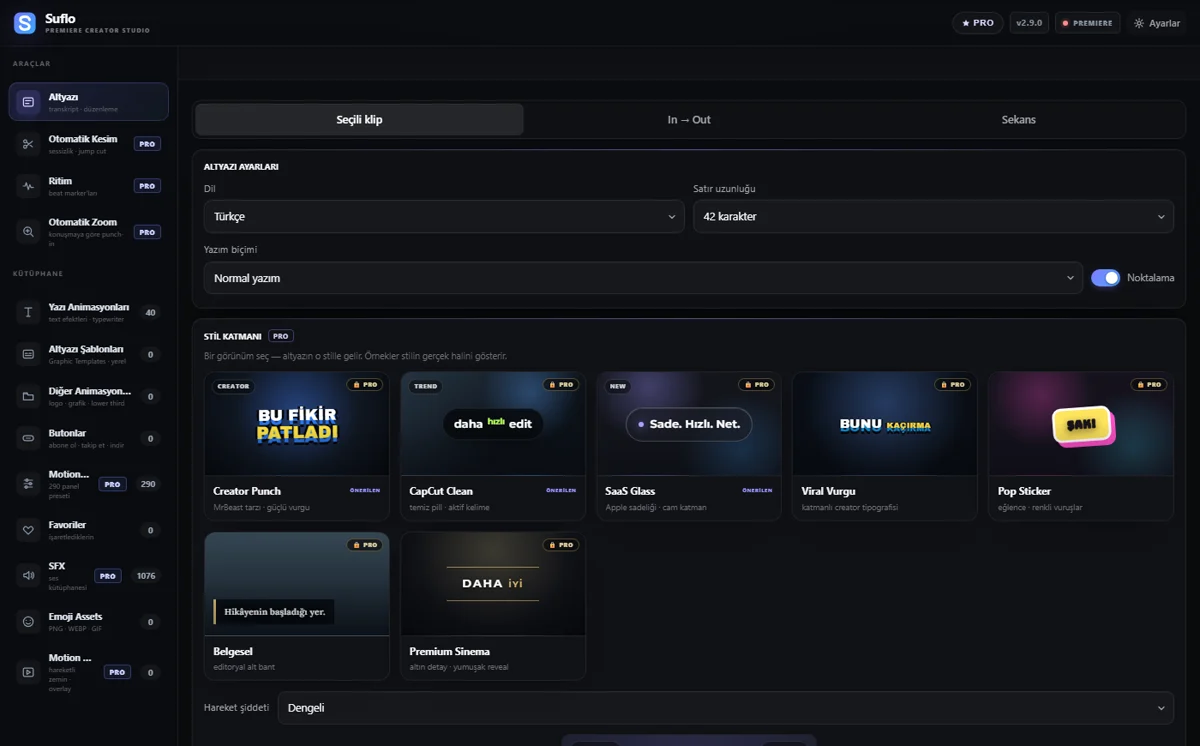
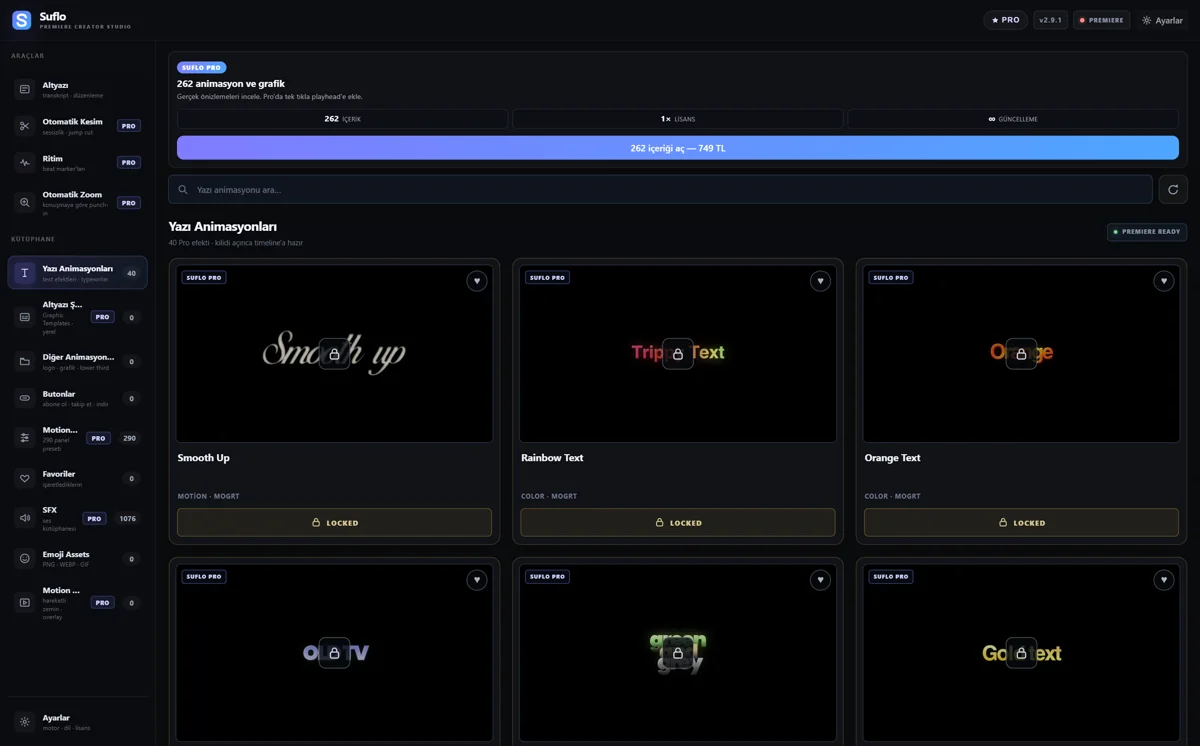
Site v2.9.1'e uyarlandi: gercek Creator Studio gorseli + dogru sayilar
- Hero gorseli yeni Creator Studio arayuzunden tazelendi (CDP yakalama,
  1200x746 webp, ?v=291 ile onbellek kirici)
- Stil karti duzeltildi: 10 degil 7 gercek stil (Creator Punch, CapCut
  Clean, SaaS Glass dahil), gomulu Turkce fontlar
- Preset sayisi netlestirildi: 290 = 12 yerlesik + 278 Suflo Smooth
- Otomatik Zoom karti 2.9 karar motoru diliyle guncellendi
- Kutuphane notuna Altyazi Sablonlari (Captioneer), kurulum notuna
  Suflo Doctor eklendi
- devserver.js PORT ortam degiskenini taniyor (5177 doluysa autoPort)

diff --git a/docs/index.html b/docs/index.html
@@ -29,7 +29,7 @@
 <link rel="preconnect" href="https://fonts.gstatic.com" crossorigin>
 <link href="https://fonts.googleapis.com/css2?family=Plus+Jakarta+Sans:wght@400;500;600;700;800&display=swap" rel="stylesheet">
 
-<script type="application/ld+json">{"@context":"https://schema.org","@graph":[{"@type":"SoftwareApplication","name":"Suflo","applicationCategory":"MultimediaApplication","applicationSubCategory":"Adobe Premiere Pro eklentisi","operatingSystem":"Windows, macOS","url":"https://suflo.app/","downloadUrl":"https://github.com/sametcreates/suflo/releases/latest","softwareVersion":"2.9.1","license":"https://opensource.org/licenses/MIT","inLanguage":"tr","description":"Adobe Premiere Pro için ücretsiz ve açık kaynak yapay zekâ altyazı eklentisi. Türkçe, Azerice, İngilizce, Rusça dahil 99 dil. Bilgisayarda yerel çalışır, kurulumdan sonra internet gerektirmez.","featureList":["Otomatik Türkçe altyazı","Otomatik Azerice altyazı","Uygulamadan önce satır satır düzenleme","Terim sözlüğü ile doğru Türkçe yazım","SRT, WebVTT, ASS ve TXT dışa aktarma","NVIDIA GPU ve Apple Metal hızlandırma","Kurulumdan sonra internetsiz çalışma"],"offers":{"@type":"Offer","price":"0","priceCurrency":"TRY"},"interactionStatistic":{"@type":"InteractionCounter","interactionType":"https://schema.org/DownloadAction","userInteractionCount":1229},"author":{"@type":"Person","name":"sametcreates","url":"https://instagram.com/sametcreates"}},{"@type":"SoftwareApplication","name":"Suflo Pro","operatingSystem":"Windows, macOS","applicationCategory":"MultimediaApplication","description":"Suflo'nun ücretli katmanı: otomatik sessizlik kesimi, konuşmaya göre punch-in zoom, ritim marker'ları, 262 hazır animasyon (35 buton dahil), 1076 ses efekti, 30 hareketli zemin, 290 panel preseti, Creator Punch, CapCut Clean ve SaaS Glass dahil Stil Motoru v3, çeviri ve stilli ASS. Tek seferlik ödeme, abonelik yok.","url":"https://suflo.app/#fiyat","offers":{"@type":"Offer","price":"749","priceCurrency":"TRY","url":"https://suflo.lemonsqueezy.com/checkout/buy/e33dda31-8e47-46c3-be1d-e047ab1b2dd1","availability":"https://schema.org/InStock"}},{"@type":"HowTo","name":"Adobe Premiere Pro'ya Türkçe altyazı nasıl eklenir","description":"Suflo eklentisiyle Premiere Pro'ya birkaç dakikada otomatik Türkçe altyazı ekleme adımları.","totalTime":"PT5M","tool":[{"@type":"HowToTool","name":"Adobe Premiere Pro 2020 (14.4) veya üstü"}],"step":[{"@type":"HowToStep","position":1,"name":"Suflo'yu indir ve kur","text":"GitHub sürüm sayfasından kurulum dosyasını indir, ZIP'i aç ve kur dosyasına çift tıkla (Windows: Suflo-Kur.bat, Mac: Suflo-Kur.command).","url":"https://suflo.app/#kurulum"},{"@type":"HowToStep","position":2,"name":"Paneli aç","text":"Premiere'i yeniden başlat ve Window > Extensions > Suflo menüsünden paneli aç.","url":"https://suflo.app/#kurulum"},{"@type":"HowToStep","position":3,"name":"Altyazı oluştur","text":"Klibi seç, dili Türkçe bırak ve Altyazı oluştur düğmesine bas. Metni panelde düzenleyip caption izi olarak uygula ya da SRT/VTT olarak dışa aktar.","url":"https://suflo.app/#nasil"}]},{"@type":"FAQPage","mainEntity":[{"@type":"Question","name":"Adobe Premiere Türkçe altyazı yapabiliyor mu?","acceptedAnswer":{"@type":"Answer","text":"Hayır. Premiere'in yerleşik konuşmayı yazıya dökme özelliği 18 dil destekliyor ve bu listede Türkçe de Azerice de yok. Suflo tam bu boşluğu doldurur ve altyazı tarafı tamamen ücretsizdir."}},{"@type":"Question","name":"Suflo gerçekten tamamen ücretsiz mi, şartı ne?","acceptedAnswer":{"@type":"Answer","text":"Şartı yok. Altyazı çekirdeği MIT lisanslı açık kaynak, kodun tamamı GitHub'da. Yapay zekâ senin bilgisayarında çalıştığı için sunucu maliyeti yok, o yüzden ücretsiz kalabiliyor. Kredi, dakika limiti veya kayıt istemez."}},{"@type":"Question","name":"Videolarım buluta yükleniyor mu?","acceptedAnswer":{"@type":"Answer","text":"Hayır. Yerel motorda ses bilgisayarından hiç çıkmaz, kurulumdan sonra internet bile gerekmez. Sadece isteğe bağlı bulut motorunu seçersen ses senin belirlediğin sağlayıcıya gider. Çeviri özelliği yalnız altyazı metnini gönderir, sesi değil."}},{"@type":"Question","name":"Denemek için demo sürümü var mı?","acceptedAnswer":{"@type":"Answer","text":"Demoya gerek yok: ücretsiz sürüm kısıtlı bir deneme değil, tam ve sınırsız araçtır. Türkçe altyazı, düzenleme ve SRT/VTT dışa aktarma sonsuza dek bedava. Suflo Pro yalnızca otomatik kesim, animasyon ve ses kütüphanesi gibi hızlandıran katmanı ekler."}},{"@type":"Question","name":"Hangi Premiere sürümü gerekiyor?","acceptedAnswer":{"@type":"Answer","text":"Adobe Premiere Pro 2020 (sürüm 14.4) ve üstü. Windows ve macOS'ta çalışır; Apple Silicon'da Metal, NVIDIA kartlarda CUDA hızlandırma otomatik açılır."}},{"@type":"Question","name":"Nasıl kurulur?","acceptedAnswer":{"@type":"Answer","text":"Kurulum dosyasını indir, ZIP'i aç ve kur dosyasına çift tıkla (Windows: Suflo-Kur.bat, Mac: Suflo-Kur.command). Sonra Premiere'i yeniden başlat ve Window > Extensions > Suflo menüsünden paneli aç. Toplam iki dakika sürer."}},{"@type":"Question","name":"Pro abonelik mi, tek ödeme mi?","acceptedAnswer":{"@type":"Answer","text":"Tek ödeme. Bir kez ödersin, ömür boyu senindir, güncellemeler ve yeni içerikler dahildir. Aylık ücret, dakika limiti veya otomatik yenileme yok."}},{"@type":"Question","name":"Bilgisayar değiştirirsem lisansım ne olur?","acceptedAnswer":{"@type":"Answer","text":"Lisansın kişiseldir ve seninle taşınır. Eski bilgisayarda Ayarlar bölümünden bu makinede devre dışı bırak, yeni bilgisayarda aynı anahtarla etkinleştir."}},{"@type":"Question","name":"Bilgisayarım yavaşsa çalışır mı?","acceptedAnswer":{"@type":"Answer","text":"Beş model seçeneği var; en küçüğü 32 MB ve zayıf bilgisayarlarda da çalışır. Acelen varsa ücretsiz bir Groq bulut anahtarıyla bulut moduna geçebilirsin: dakikalar değil saniyeler sürer."}},{"@type":"Question","name":"Hangi diller destekleniyor?","acceptedAnswer":{"@type":"Answer","text":"Türkçe, Azerice, İngilizce ve Rusça panelden tek tıkla seçilir. Otomatik algıla seçeneğiyle Whisper'ın desteklediği 99 dilin tamamı kullanılabilir."}}]}]}</script>
+<script type="application/ld+json">{"@context":"https://schema.org","@graph":[{"@type":"SoftwareApplication","name":"Suflo","applicationCategory":"MultimediaApplication","applicationSubCategory":"Adobe Premiere Pro eklentisi","operatingSystem":"Windows, macOS","url":"https://suflo.app/","downloadUrl":"https://github.com/sametcreates/suflo/releases/latest","softwareVersion":"2.9.1","license":"https://opensource.org/licenses/MIT","inLanguage":"tr","description":"Adobe Premiere Pro için ücretsiz ve açık kaynak yapay zekâ altyazı eklentisi. Türkçe, Azerice, İngilizce, Rusça dahil 99 dil. Bilgisayarda yerel çalışır, kurulumdan sonra internet gerektirmez.","featureList":["Otomatik Türkçe altyazı","Otomatik Azerice altyazı","Uygulamadan önce satır satır düzenleme","Terim sözlüğü ile doğru Türkçe yazım","SRT, WebVTT, ASS ve TXT dışa aktarma","NVIDIA GPU ve Apple Metal hızlandırma","Kurulumdan sonra internetsiz çalışma"],"offers":{"@type":"Offer","price":"0","priceCurrency":"TRY"},"interactionStatistic":{"@type":"InteractionCounter","interactionType":"https://schema.org/DownloadAction","userInteractionCount":1229},"author":{"@type":"Person","name":"sametcreates","url":"https://instagram.com/sametcreates"}},{"@type":"SoftwareApplication","name":"Suflo Pro","operatingSystem":"Windows, macOS","applicationCategory":"MultimediaApplication","description":"Suflo'nun ücretli katmanı: otomatik sessizlik kesimi, konuşmaya göre punch-in zoom, ritim marker'ları, 262 hazır animasyon (35 buton dahil), 1076 ses efekti, 30 hareketli zemin, 290 preset (278'i Suflo Smooth efekt paketi), Creator Punch, CapCut Clean ve SaaS Glass dahil Stil Motoru v3, çeviri ve stilli ASS. Tek seferlik ödeme, abonelik yok.","url":"https://suflo.app/#fiyat","offers":{"@type":"Offer","price":"749","priceCurrency":"TRY","url":"https://suflo.lemonsqueezy.com/checkout/buy/e33dda31-8e47-46c3-be1d-e047ab1b2dd1","availability":"https://schema.org/InStock"}},{"@type":"HowTo","name":"Adobe Premiere Pro'ya Türkçe altyazı nasıl eklenir","description":"Suflo eklentisiyle Premiere Pro'ya birkaç dakikada otomatik Türkçe altyazı ekleme adımları.","totalTime":"PT5M","tool":[{"@type":"HowToTool","name":"Adobe Premiere Pro 2020 (14.4) veya üstü"}],"step":[{"@type":"HowToStep","position":1,"name":"Suflo'yu indir ve kur","text":"GitHub sürüm sayfasından kurulum dosyasını indir, ZIP'i aç ve kur dosyasına çift tıkla (Windows: Suflo-Kur.bat, Mac: Suflo-Kur.command).","url":"https://suflo.app/#kurulum"},{"@type":"HowToStep","position":2,"name":"Paneli aç","text":"Premiere'i yeniden başlat ve Window > Extensions > Suflo menüsünden paneli aç.","url":"https://suflo.app/#kurulum"},{"@type":"HowToStep","position":3,"name":"Altyazı oluştur","text":"Klibi seç, dili Türkçe bırak ve Altyazı oluştur düğmesine bas. Metni panelde düzenleyip caption izi olarak uygula ya da SRT/VTT olarak dışa aktar.","url":"https://suflo.app/#nasil"}]},{"@type":"FAQPage","mainEntity":[{"@type":"Question","name":"Adobe Premiere Türkçe altyazı yapabiliyor mu?","acceptedAnswer":{"@type":"Answer","text":"Hayır. Premiere'in yerleşik konuşmayı yazıya dökme özelliği 18 dil destekliyor ve bu listede Türkçe de Azerice de yok. Suflo tam bu boşluğu doldurur ve altyazı tarafı tamamen ücretsizdir."}},{"@type":"Question","name":"Suflo gerçekten tamamen ücretsiz mi, şartı ne?","acceptedAnswer":{"@type":"Answer","text":"Şartı yok. Altyazı çekirdeği MIT lisanslı açık kaynak, kodun tamamı GitHub'da. Yapay zekâ senin bilgisayarında çalıştığı için sunucu maliyeti yok, o yüzden ücretsiz kalabiliyor. Kredi, dakika limiti veya kayıt istemez."}},{"@type":"Question","name":"Videolarım buluta yükleniyor mu?","acceptedAnswer":{"@type":"Answer","text":"Hayır. Yerel motorda ses bilgisayarından hiç çıkmaz, kurulumdan sonra internet bile gerekmez. Sadece isteğe bağlı bulut motorunu seçersen ses senin belirlediğin sağlayıcıya gider. Çeviri özelliği yalnız altyazı metnini gönderir, sesi değil."}},{"@type":"Question","name":"Denemek için demo sürümü var mı?","acceptedAnswer":{"@type":"Answer","text":"Demoya gerek yok: ücretsiz sürüm kısıtlı bir deneme değil, tam ve sınırsız araçtır. Türkçe altyazı, düzenleme ve SRT/VTT dışa aktarma sonsuza dek bedava. Suflo Pro yalnızca otomatik kesim, animasyon ve ses kütüphanesi gibi hızlandıran katmanı ekler."}},{"@type":"Question","name":"Hangi Premiere sürümü gerekiyor?","acceptedAnswer":{"@type":"Answer","text":"Adobe Premiere Pro 2020 (sürüm 14.4) ve üstü. Windows ve macOS'ta çalışır; Apple Silicon'da Metal, NVIDIA kartlarda CUDA hızlandırma otomatik açılır."}},{"@type":"Question","name":"Nasıl kurulur?","acceptedAnswer":{"@type":"Answer","text":"Kurulum dosyasını indir, ZIP'i aç ve kur dosyasına çift tıkla (Windows: Suflo-Kur.bat, Mac: Suflo-Kur.command). Sonra Premiere'i yeniden başlat ve Window > Extensions > Suflo menüsünden paneli aç. Toplam iki dakika sürer."}},{"@type":"Question","name":"Pro abonelik mi, tek ödeme mi?","acceptedAnswer":{"@type":"Answer","text":"Tek ödeme. Bir kez ödersin, ömür boyu senindir, güncellemeler ve yeni içerikler dahildir. Aylık ücret, dakika limiti veya otomatik yenileme yok."}},{"@type":"Question","name":"Bilgisayar değiştirirsem lisansım ne olur?","acceptedAnswer":{"@type":"Answer","text":"Lisansın kişiseldir ve seninle taşınır. Eski bilgisayarda Ayarlar bölümünden bu makinede devre dışı bırak, yeni bilgisayarda aynı anahtarla etkinleştir."}},{"@type":"Question","name":"Bilgisayarım yavaşsa çalışır mı?","acceptedAnswer":{"@type":"Answer","text":"Beş model seçeneği var; en küçüğü 32 MB ve zayıf bilgisayarlarda da çalışır. Acelen varsa ücretsiz bir Groq bulut anahtarıyla bulut moduna geçebilirsin: dakikalar değil saniyeler sürer."}},{"@type":"Question","name":"Hangi diller destekleniyor?","acceptedAnswer":{"@type":"Answer","text":"Türkçe, Azerice, İngilizce ve Rusça panelden tek tıkla seçilir. Otomatik algıla seçeneğiyle Whisper'ın desteklediği 99 dilin tamamı kullanılabilir."}}]}]}</script>
 
 <style>
 :root{
@@ -500,7 +500,7 @@ details[open] p{animation:sssAc .38s cubic-bezier(.16,1,.3,1)}
       <div class="panel-sahne">
         <figure class="panel-shot" aria-label="Suflo panelinin Premiere Pro içindeki gerçek görünümü">
           <div class="ps-bar"><i></i><i></i><i></i><span>Suflo — Premiere Pro paneli</span></div>
-          <img src="/gorseller/panel.webp" alt="Suflo paneli: altyazı ayarları, stil katmanı ve içerik kütüphanesi" width="1200" height="746" loading="eager" fetchpriority="high">
+          <img src="/gorseller/panel.webp?v=291" alt="Suflo Creator Studio paneli: araçlar, yazı animasyonları kütüphanesi ve Pro içerikler" width="1200" height="746" loading="eager" fetchpriority="high">
         </figure>
         <div class="chip c1" aria-hidden="true">✂ <i>Sessizlik kesildi</i> <b>−2:41</b></div>
         <div class="chip c2" aria-hidden="true">💬 <i>Caption izine uygulandı</i></div>
@@ -685,7 +685,7 @@ details[open] p{animation:sssAc .38s cubic-bezier(.16,1,.3,1)}
         <div class="ik"><svg viewBox="0 0 24 24" fill="none" stroke="currentColor" stroke-width="2" stroke-linecap="round" stroke-linejoin="round"><circle cx="11" cy="11" r="7"/><path d="m16.5 16.5 4 4M11 8.5v5M8.5 11h5"/></svg></div>
         <div class="kat">KAMERA</div>
         <h3>Tek kameraya ikinci açı hissi.</h3>
-        <p>Konuşmaya göre otomatik punch-in zoom. Yumuşak, jump-cut ya da snap — üç stil, ayarlanabilir şiddet ve odak noktası.</p>
+        <p>Altyazıdaki cümle dönüşleri, duraklamalar ve vurgulardan karar noktaları çıkarır; yumuşak, jump-cut ya da snap punch-in zoom'u kendisi yerleştirir. Şiddet ve odak ayarlanabilir.</p>
       </div>
       <div class="pk">
         <div class="ik"><svg viewBox="0 0 24 24" fill="none" stroke="currentColor" stroke-width="2" stroke-linecap="round" stroke-linejoin="round"><path d="M4 12v3M8 8v11M12 5v14M16 9v6M20 12v3"/></svg></div>
@@ -697,7 +697,7 @@ details[open] p{animation:sssAc .38s cubic-bezier(.16,1,.3,1)}
         <div class="ik"><svg viewBox="0 0 24 24" fill="none" stroke="currentColor" stroke-width="2" stroke-linecap="round" stroke-linejoin="round"><path d="M5 4h14M12 4v16M8 20h8"/></svg></div>
         <div class="kat">STİL</div>
         <h3>Altyazın ilk kareden canlanır.</h3>
-        <p>10 hazır altyazı stili ve kelime kelime animasyonlu vurgu. Sarı vurgu, neon, kutu, sticker, daktilo — hepsi panelden tek tıkla.</p>
+        <p>Stil Motoru v3: Creator Punch, CapCut Clean ve SaaS Glass dahil 7 gerçek stil, kelime kelime animasyonlu vurguyla. Gömülü Türkçe fontlar — hepsi panelden tek tıkla.</p>
       </div>
     </div>
   </div>
@@ -766,7 +766,7 @@ details[open] p{animation:sssAc .38s cubic-bezier(.16,1,.3,1)}
       <p class="gnot"><b style="color:var(--tx2)">✦ Smart SFX 2.0:</b> altyazındaki vurgu anlarını yerelde bulur; uygun sesi, güven puanını ve alternatiflerini gösterir. İstersen hazır önerilerin hepsini tek seferde timeline'a ekler.</p>
     </div>
 
-    <p class="gnot">Ayrıca <b style="color:var(--tx2)">290 panel preseti</b> (slide, zoom, pop, fade) ve kendi arşivini bağlama imkânı. İçerikler sürüm çıktıkça artar — <b style="color:var(--tx2)">hepsi tek ödemeye dahil</b>.</p>
+    <p class="gnot">Ayrıca <b style="color:var(--tx2)">290 preset</b> — 12 yerleşik + 278 efektlik Suflo Smooth paketi (shake, slide, zoom, transition, look) ve kendi arşivini bağlama imkânı. Premiere'de kurulu Captioneer altyazı şablonların da panelde ayrı <b style="color:var(--tx2)">Altyazı Şablonları</b> bölümünde listelenir. İçerikler sürüm çıktıkça artar — <b style="color:var(--tx2)">hepsi tek ödemeye dahil</b>.</p>
   </div>
 </section>
 
@@ -901,7 +901,7 @@ details[open] p{animation:sssAc .38s cubic-bezier(.16,1,.3,1)}
         </ol>
       </div>
     </div>
-    <p class="gnot">Yerel yapay zekâ motoru ve ffmpeg ilk çalıştırmada panelden tek tıkla kurulur — ayrıca bir şey indirmen gerekmez.</p>
+    <p class="gnot">Yerel yapay zekâ motoru ve ffmpeg ilk çalıştırmada panelden tek tıkla kurulur — ayrıca bir şey indirmen gerekmez. Bir şey ters giderse <b style="color:var(--tx2)">Suflo Doctor</b> paneldeki tek taramayla Premiere bağlantısını, FFmpeg'i, motoru ve içerikleri denetler; güvenli onarım seçenekleri sunar.</p>
   </div>
 </section>
 

diff --git a/tools/devserver.js b/tools/devserver.js
@@ -8,7 +8,7 @@ const fs = require("fs");
 const path = require("path");
 
 const ROOT = path.resolve(__dirname, "..");
-const PORT = 5177;
+const PORT = Number(process.env.PORT) || 5177;
 
 const TYPES = {
   ".html": "text/html; charset=utf-8",
